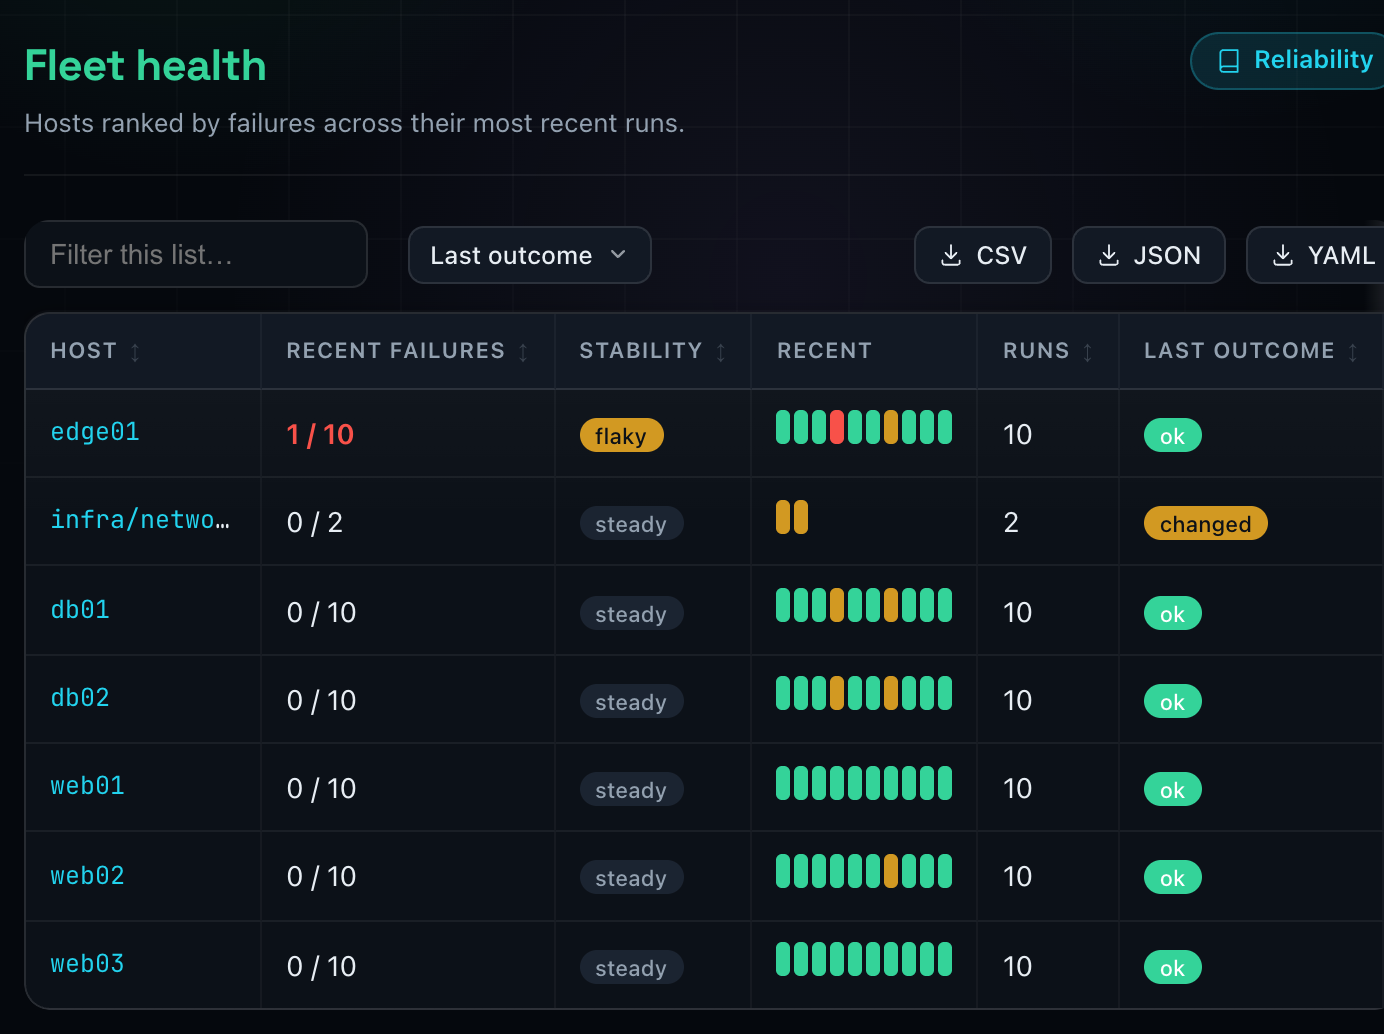
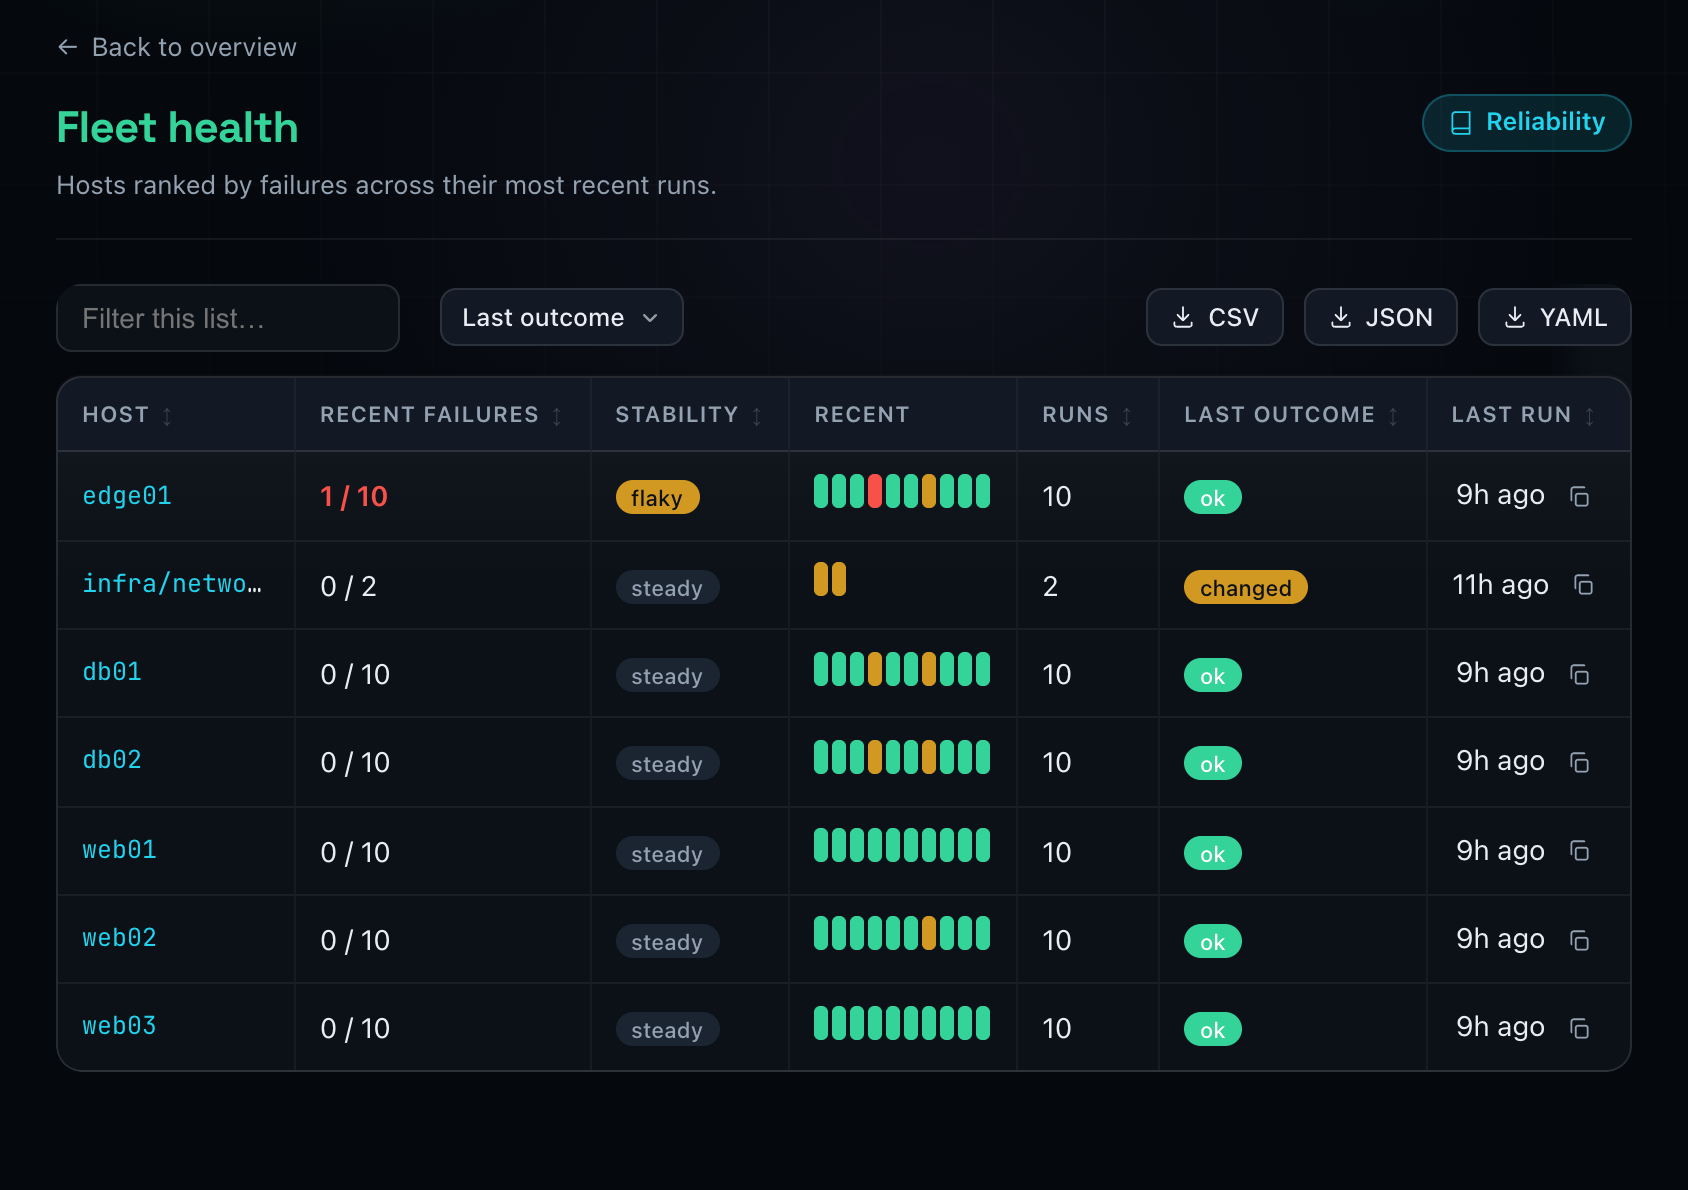
Recapture the fleet screenshot unclipped

diff --git a/site/index.html b/site/index.html
@@ -117,7 +117,7 @@
 				<div class="glow" aria-hidden="true"></div>
 				<figure class="window">
 					<div class="window-bar"><span></span><span></span><span></span><em>switchtender: fleet health</em></div>
-					<img src="/assets/screenshot-fleet.png?v=10" width="692" height="517" alt="Fleet health: hosts ranked by recent failures, each with its stability, a strip of its recent outcomes, and its last outcome" loading="eager" fetchpriority="high">
+					<img src="/assets/screenshot-fleet.png?v=11" width="844" height="595" alt="Fleet health: hosts ranked by recent failures, each with its stability, a strip of its recent outcomes, and its last outcome" loading="eager" fetchpriority="high">
 				</figure>
 			</div>
 		</section>
